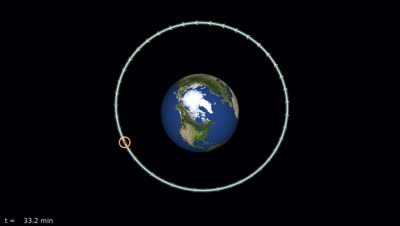
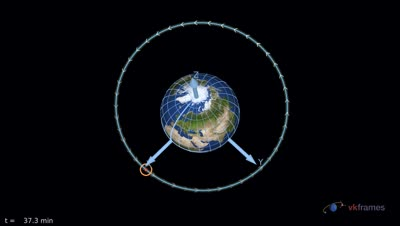
Video watermark, and a spinning Earth in record_video
start_recording(..., watermark, watermark_width, watermark_opacity): an
image (SVG, PNG, ...) overlaid on the video's bottom right corner by
ffmpeg's filter graph, scaled to a fraction of the video's width and made
translucent; a missing file refuses to start. make_logo.py also writes
vkframes-logo-dark.svg (the dark-background colors without
prefers-color-scheme, which ffmpeg's librsvg ignores). ffmpeg >= 7.1.

record_video: the vkframes logo as a watermark; an inertial root frame
holding the Earth, the orbit and the spacecraft; the Earth spinning (an
attitude trajectory followed in a loop: a turn per orbit, to see it), with
its axes (longer, from the surface) and a latitude/longitude grid turning
with it. test_record checks a watermarked recording and a missing
watermark; README, plan and thumbnail updated.

diff --git a/media/logo/make_logo.py b/media/logo/make_logo.py
@@ -1,4 +1,7 @@
-"""Generate the vkframes logo (vkframes-logo.svg, next to this script).
+"""Generate the vkframes logo (vkframes-logo.svg, next to this script), and
+vkframes-logo-dark.svg: the same in the dark-background colors always (for
+renderers without prefers-color-scheme, e.g. ffmpeg's librsvg: the video
+watermark of example/record_video.f90).
 
 The mark: a half-lit body with an orbit traced from its start (a green start
 marker) up to the spacecraft, the plane swept so far (translucent), and the
@@ -14,6 +17,7 @@ import os
 
 HERE = os.path.dirname(os.path.abspath(__file__))
 OUT = os.path.join(HERE, "vkframes-logo.svg")
+OUT_DARK = os.path.join(HERE, "vkframes-logo-dark.svg")
 
 # the axes (x, y, z), the orbit and spacecraft, the outlines
 RED, GREEN, BLUE = "#e5484d", "#2fb170", "#3e7bfa"
@@ -37,6 +41,11 @@ STYLE = f"""<style>
     .vk {{ fill: {VULKAN_RED_DARK}; }}
     .ft {{ fill: {FORTRAN_PURPLE_DARK}; }}
   }}
+</style>"""
+STYLE_DARK = f"""<style>
+  .ink {{ stroke: {INK_DARK}; }}
+  .vk {{ fill: {VULKAN_RED_DARK}; }}
+  .ft {{ fill: {FORTRAN_PURPLE_DARK}; }}
 </style>"""
 
 
@@ -71,7 +80,7 @@ def arrow(ox, oy, dx, dy, length, color, width, head, head_w):
             f'{f(bx - px * head_w)},{f(by - py * head_w)}" fill="{color}"/>')
 
 
-def logo():
+def logo(style=STYLE):
     parts = ['<defs><clipPath id="body"><circle cx="128" cy="132" r="44"/></clipPath></defs>']
     # the plane swept so far, and the orbit traced behind the body
     fan = arc(T_START, T_SPACECRAFT)
@@ -105,10 +114,11 @@ def logo():
     body = "\n".join(parts)
     return ('<svg xmlns="http://www.w3.org/2000/svg" viewBox="0 0 786 256" width="786" height="256" '
             'role="img" aria-label="vkframes">\n<title>vkframes</title>\n'
-            f'{STYLE}\n{body}\n</svg>\n')
+            f'{style}\n{body}\n</svg>\n')
 
 
 if __name__ == "__main__":
-    with open(OUT, "w") as fh:
-        fh.write(logo())
-    print("wrote", OUT)
+    for out, style in ((OUT, STYLE), (OUT_DARK, STYLE_DARK)):
+        with open(out, "w") as fh:
+            fh.write(logo(style))
+        print("wrote", out)

diff --git a/README.md b/README.md
@@ -148,10 +148,10 @@ hidden global state. Vkframes is built on [VulkanSceneGraph](https://github.com/
     `start_recording('orbit.mp4', fps=30)` ... `stop_recording()` pipes the
     frames drawn as raw pixels to ffmpeg (conda-forge's, in the pixi
     environment), which encodes them (H.264 by default; any ffmpeg encoder
-    and options), with no image files. While recording, each frame advances
-    the simulation time, camera flights and animations by exactly one
-    frame's time, so the video is smooth at its own speed however long a
-    frame takes to draw or encode.
+    and options; a watermark such as a logo), with no image files. While
+    recording, each frame advances the simulation time, camera flights and
+    animations by exactly one frame's time, so the video is smooth at its
+    own speed however long a frame takes to draw or encode.
   - Callouts: HUD text and frames' labels can change while shown (text,
     color, position, size, alignment, font). A frame's name label can be
     drawn on top of the scene, so a frame moved to a picked point makes a
@@ -286,7 +286,7 @@ of its own (no GUI toolkit). Each shows one part of the API:
 | `two_windows` | <img src="media/screenshots/examples/two_windows_1.jpg" width="78" alt="two_windows, window 1"><img src="media/screenshots/examples/two_windows_2.jpg" width="78" alt="two_windows, window 2"> | One scene in two windows, each with its own view, their clocks synchronized so both show the same time. |
 | `pick_trajectories` | <img src="media/screenshots/examples/pick_trajectories.jpg" width="160" alt="pick_trajectories"> | Picking and callouts: three orbits with markers; the orbit under the pointer is drawn thicker, a click selects an orbit or marker (a ring and a readout at the point: the time there and the altitude) or the Earth (latitude and longitude), a GUI panel follows the selected orbit's spacecraft (its altitude, trace mode, line width, go to the time picked), a Controls panel sets the time scale and pause, and `g` goes to the time selected. |
 | `highlight_trajectory` | <img src="media/screenshots/examples/highlight_trajectory.jpg" width="160" alt="highlight_trajectory"> | Highlighting a selected trajectory: four Earth orbits (parking, transfer, geostationary, Molniya); the program selects the next every few seconds and a click selects the one under the pointer. The selected orbit pulses, with arrows moving along it from its initial time to its final in a translucent band (`set_highlight`, animated by the GPU); `m` changes the highlight's mode. |
-| `record_video` | <img src="media/screenshots/examples/record_video.jpg" width="160" alt="record_video"> | Recording a video: a spacecraft on a highlighted orbit with a pulsing marker and a camera flight half way, recorded to a video file by ffmpeg (`start_recording`, `stop_recording`); the simulation time, the flight and the animations advance by exactly one frame's time per frame, so the video is smooth however fast the window draws. |
+| `record_video` | <img src="media/screenshots/examples/record_video.jpg" width="160" alt="record_video"> | Recording a video: a spacecraft on a highlighted orbit with a pulsing marker, the Earth spinning with its axes and a latitude/longitude grid, and a camera flight half way, recorded to a video file by ffmpeg (`start_recording`, `stop_recording`), with the vkframes logo as a translucent watermark; the simulation time, the flight and the animations advance by exactly one frame's time per frame, so the video is smooth however fast the window draws. |
 | `camera_tour` | <img src="media/screenshots/examples/camera_tour.jpg" width="160" alt="camera_tour"> | The camera from a program: a scripted tour that flies between an Earth view and one following a spacecraft (a view transition), and to cameras given in the root frame (`set_camera` with a duration), printing where the camera is (`get_camera`). |
 | `earth_moon_frames` | <img src="media/screenshots/examples/earth_moon_frames_1.jpg" width="78" alt="earth_moon_frames, window 1"><img src="media/screenshots/examples/earth_moon_frames_2.jpg" width="78" alt="earth_moon_frames, window 2"> | One trajectory in two frames at once: a free-return lunar flyby shown in inertial coordinates about the Earth in one window, and in the Moon's body-fixed frame about the Moon in the other. Each window has its own scene; the Moon-fixed copy is transformed in Fortran, each point at its own time. |
 | `live_changes` | <img src="media/screenshots/examples/live_changes.jpg" width="160" alt="live_changes"> | Changing a scene while it's shown: a Moon added and removed, the Earth's axes moved, HUD text and a starry sky added. |

diff --git a/plans/plan.md b/plans/plan.md
@@ -769,7 +769,13 @@ Decided so far:
         `pixi.toml` (a GPL build: libx264, libx265, VP9, ProRes, ...);
         default H.264 at CRF 18, yuv420p, the size made even (`scale`
         too); `options` replaces the encoder options; the program from
-        `ffmpeg`, VKFRAMES_FFMPEG or the path. ffmpeg starts at the first
+        `ffmpeg`, VKFRAMES_FFMPEG or the path. `watermark` (an image, e.g.
+        a logo, SVG or PNG): drawn by ffmpeg over the bottom right corner,
+        `watermark_width` of the video's width, `watermark_opacity` (ffmpeg
+        7.1 or later: scaled to the video). media/logo/make_logo.py also
+        writes vkframes-logo-dark.svg (the dark-background colors without
+        prefers-color-scheme, which librsvg ignores), the watermark of
+        `example/record_video.f90`. ffmpeg starts at the first
         frame (its size and byte order known then); its errors end the
         recording (`frame()` notices, `stop_recording` returns false).
       - C++ (`src/vsg/vkf_layer.cpp`: Recorder, GrabFrame): a command after
